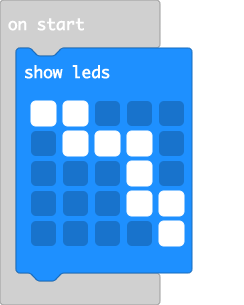
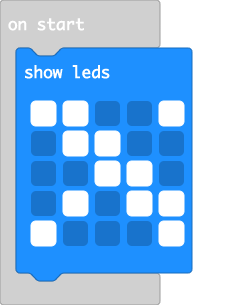
Update main.blocks, main.ts

diff --git a/main.ts b/main.ts
@@ -5,11 +5,11 @@ input.onGesture(Gesture.Shake, function () {
     basic.showNumber(12)
 })
 basic.showLeds(`
-    # # . . .
-    . # # # .
-    . . . # .
-    . . . # #
-    . . . . #
+    # # . . #
+    . # # . .
+    . . # # .
+    . # . # #
+    # . . . #
     `)
 basic.forever(function () {
 	
